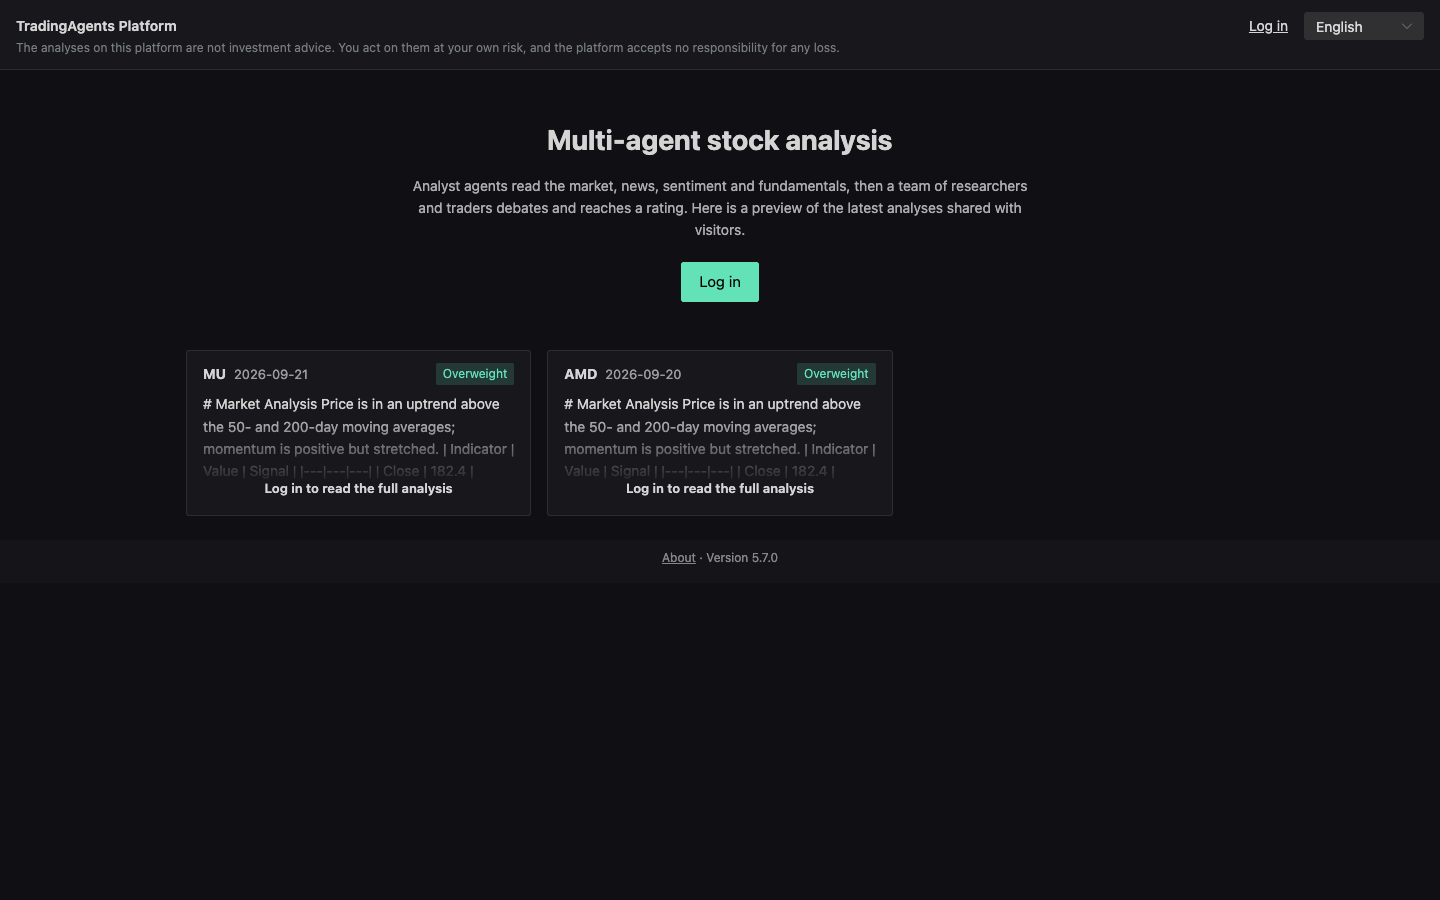
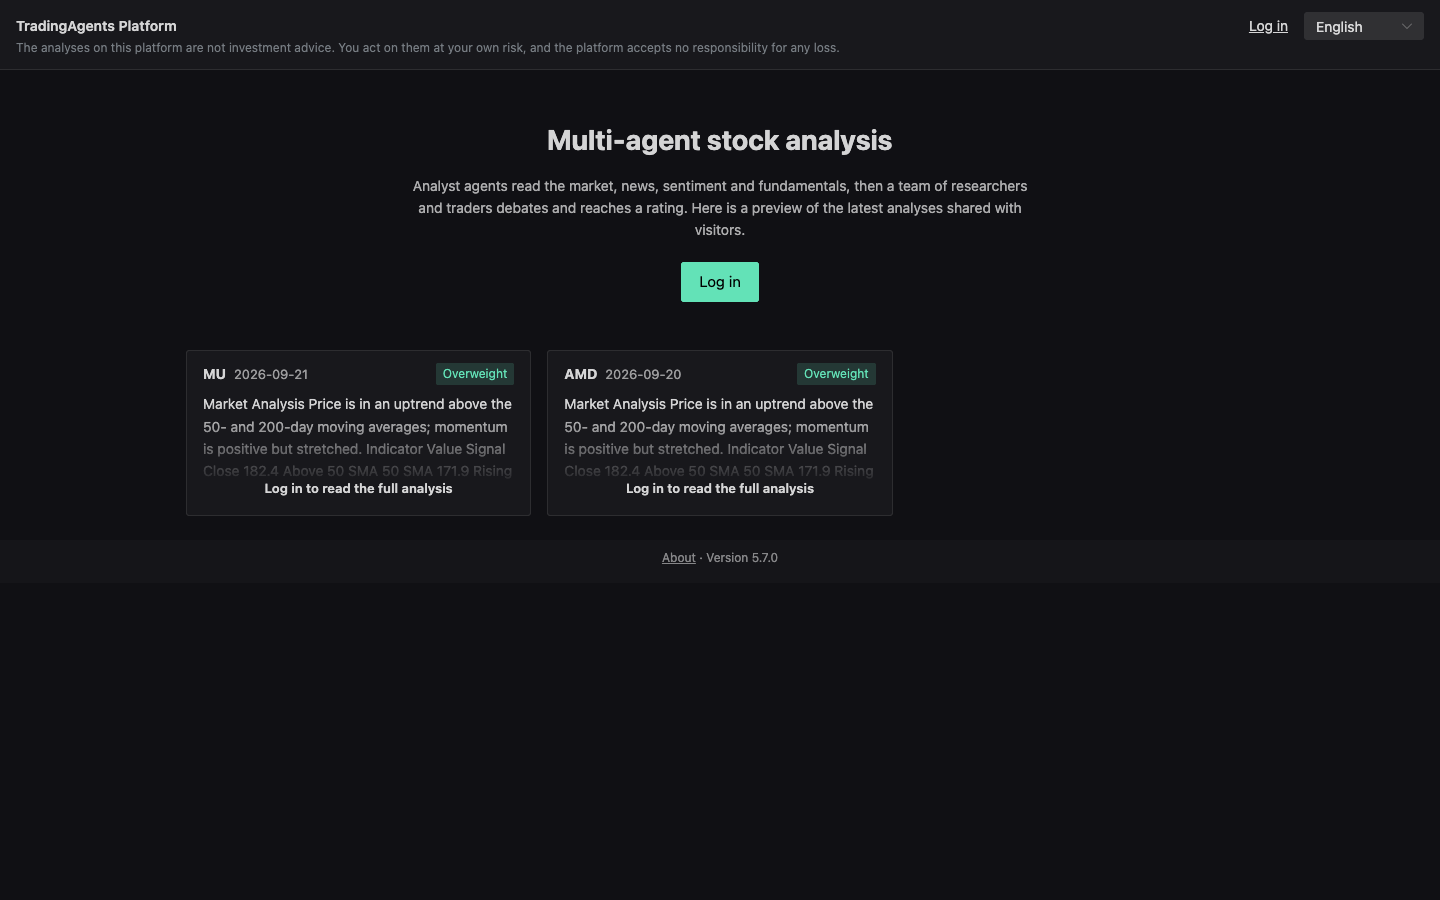
Address R2-1: Show landing card excerpts as plain text

Changed region(s): [[0.375, 0.4356, 0.5938, 0.5289], [0.125, 0.4356, 0.3438, 0.5289]]

diff --git a/artifact/frontend/src/features/preview/model/excerptText.spec.ts b/artifact/frontend/src/features/preview/model/excerptText.spec.ts
@@ -1,0 +1,22 @@
+import { describe, expect, it } from 'vitest'
+import { excerptText } from './excerptText'
+
+describe('excerptText', () => {
+  it('drops heading marks and table syntax', () => {
+    const markdown =
+      '# Market Analysis\n\nPrice is in an uptrend.\n\n| Indicator | Value | Signal |\n|---|---|---|\n| Close | 182.4 |'
+    expect(excerptText(markdown)).toBe(
+      'Market Analysis Price is in an uptrend. Indicator Value Signal Close 182.4',
+    )
+  })
+
+  it('drops emphasis, code, list marks and link targets', () => {
+    expect(excerptText('- **Strong** and _soft_ `code`\n> see [the docs](https://x.y)')).toBe(
+      'Strong and soft code see the docs',
+    )
+  })
+
+  it('keeps plain text', () => {
+    expect(excerptText('The start of the decision')).toBe('The start of the decision')
+  })
+})

diff --git a/artifact/frontend/src/features/preview/components/PreviewCard.vue b/artifact/frontend/src/features/preview/components/PreviewCard.vue
@@ -3,6 +3,7 @@ import { NCard } from 'naive-ui'
 import { useI18n } from 'vue-i18n'
 import type { AnalysisPreviewSummary } from '@/shared/api/types'
 import RatingTag from '@/shared/ui/RatingTag.vue'
+import { excerptText } from '../model/excerptText'
 
 defineProps<{ analysis: AnalysisPreviewSummary }>()
 const { t } = useI18n()
@@ -17,7 +18,7 @@ const { t } = useI18n()
         <RatingTag :rating="analysis.rating" />
       </div>
       <div class="card__excerpt">
-        <p>{{ analysis.excerpt }}</p>
+        <p>{{ excerptText(analysis.excerpt) }}</p>
         <div class="card__fade">
           <span class="card__lock">{{ t('landing.lockedHint') }}</span>
         </div>

diff --git a/artifact/frontend/src/features/preview/model/excerptText.ts b/artifact/frontend/src/features/preview/model/excerptText.ts
@@ -1,0 +1,18 @@
+const TABLE_SEPARATOR = /^\s*\|?\s*:?-{2,}:?\s*(\|\s*:?-{2,}:?\s*)*\|?\s*$/
+
+/** The plain text of a Markdown excerpt, which the backend cuts at a fixed length, even inside a table. */
+export function excerptText(markdown: string): string {
+  return markdown
+    .split('\n')
+    .filter((line) => !TABLE_SEPARATOR.test(line))
+    .map((line) =>
+      line
+        .replace(/^\s*(#{1,6}|>|[-*+]|\d+\.)\s+/, '')
+        .replace(/!?\[([^\]]*)\]\([^)]*\)/g, '$1')
+        .replace(/[*_`~]+/g, '')
+        .replace(/\|/g, ' '),
+    )
+    .join(' ')
+    .replace(/\s+/g, ' ')
+    .trim()
+}
